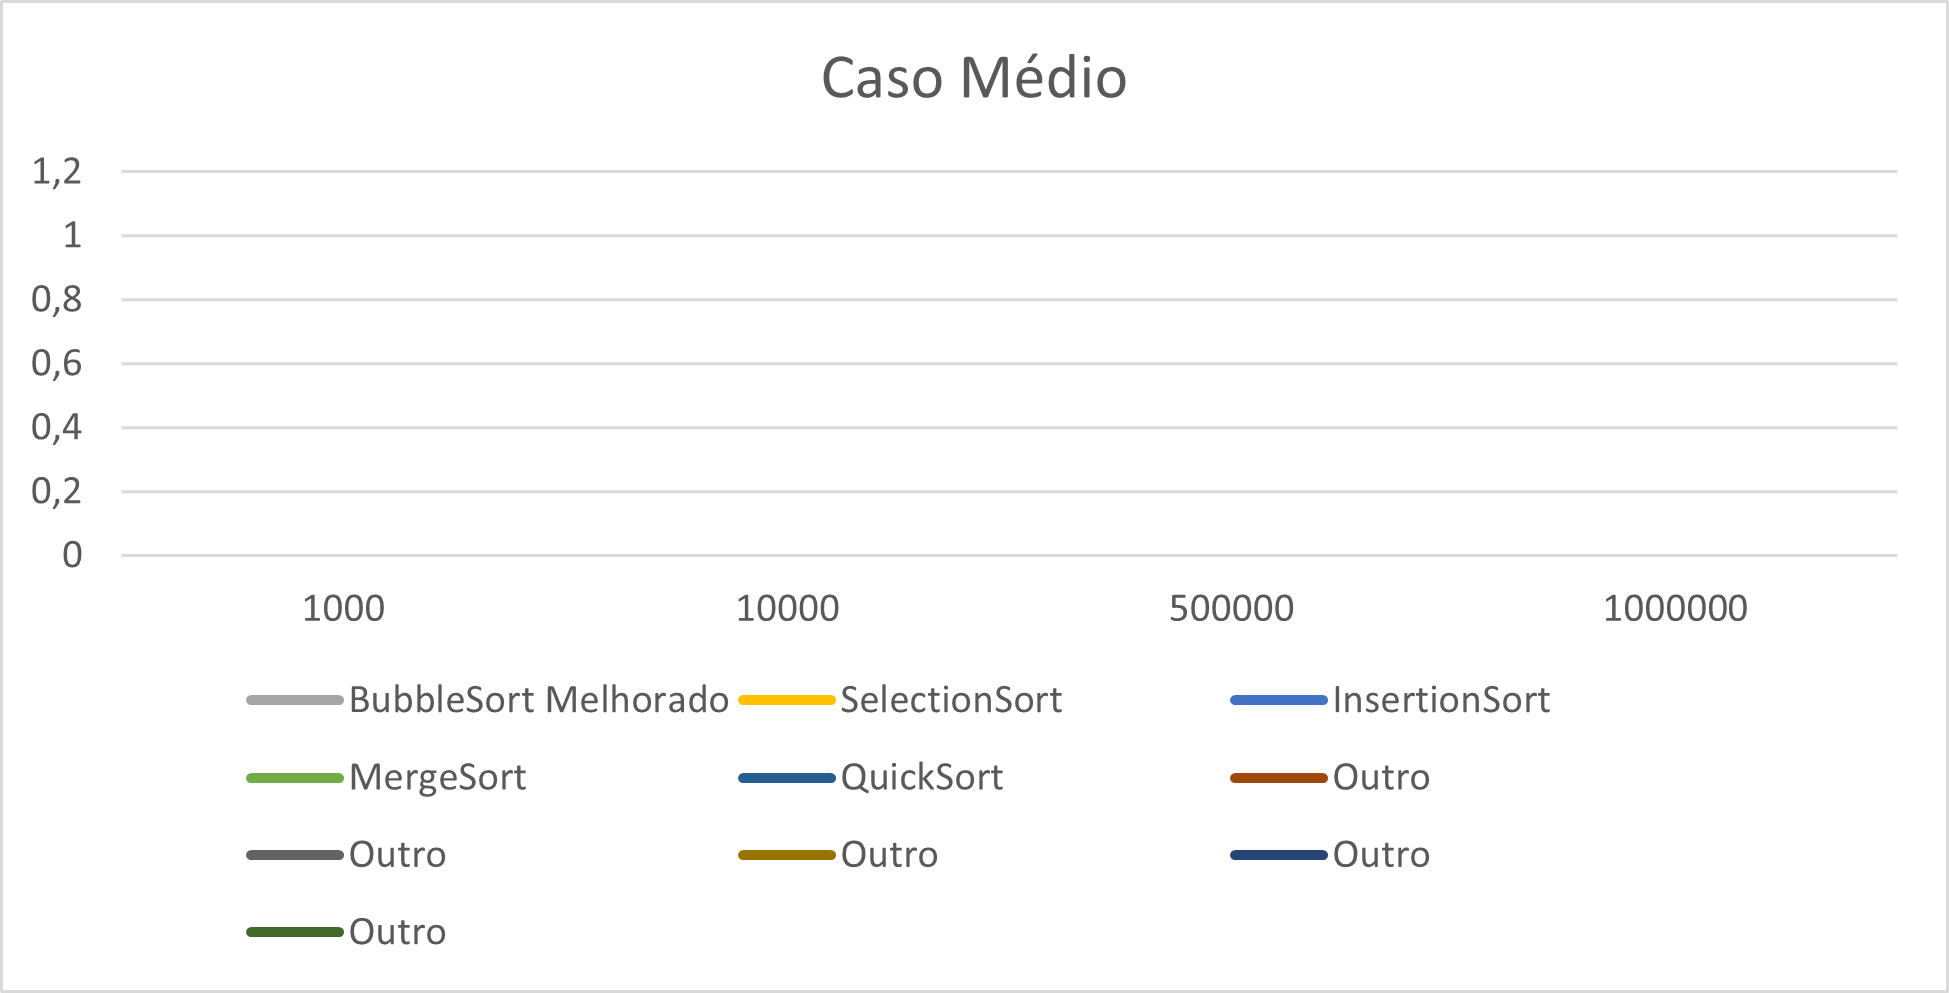
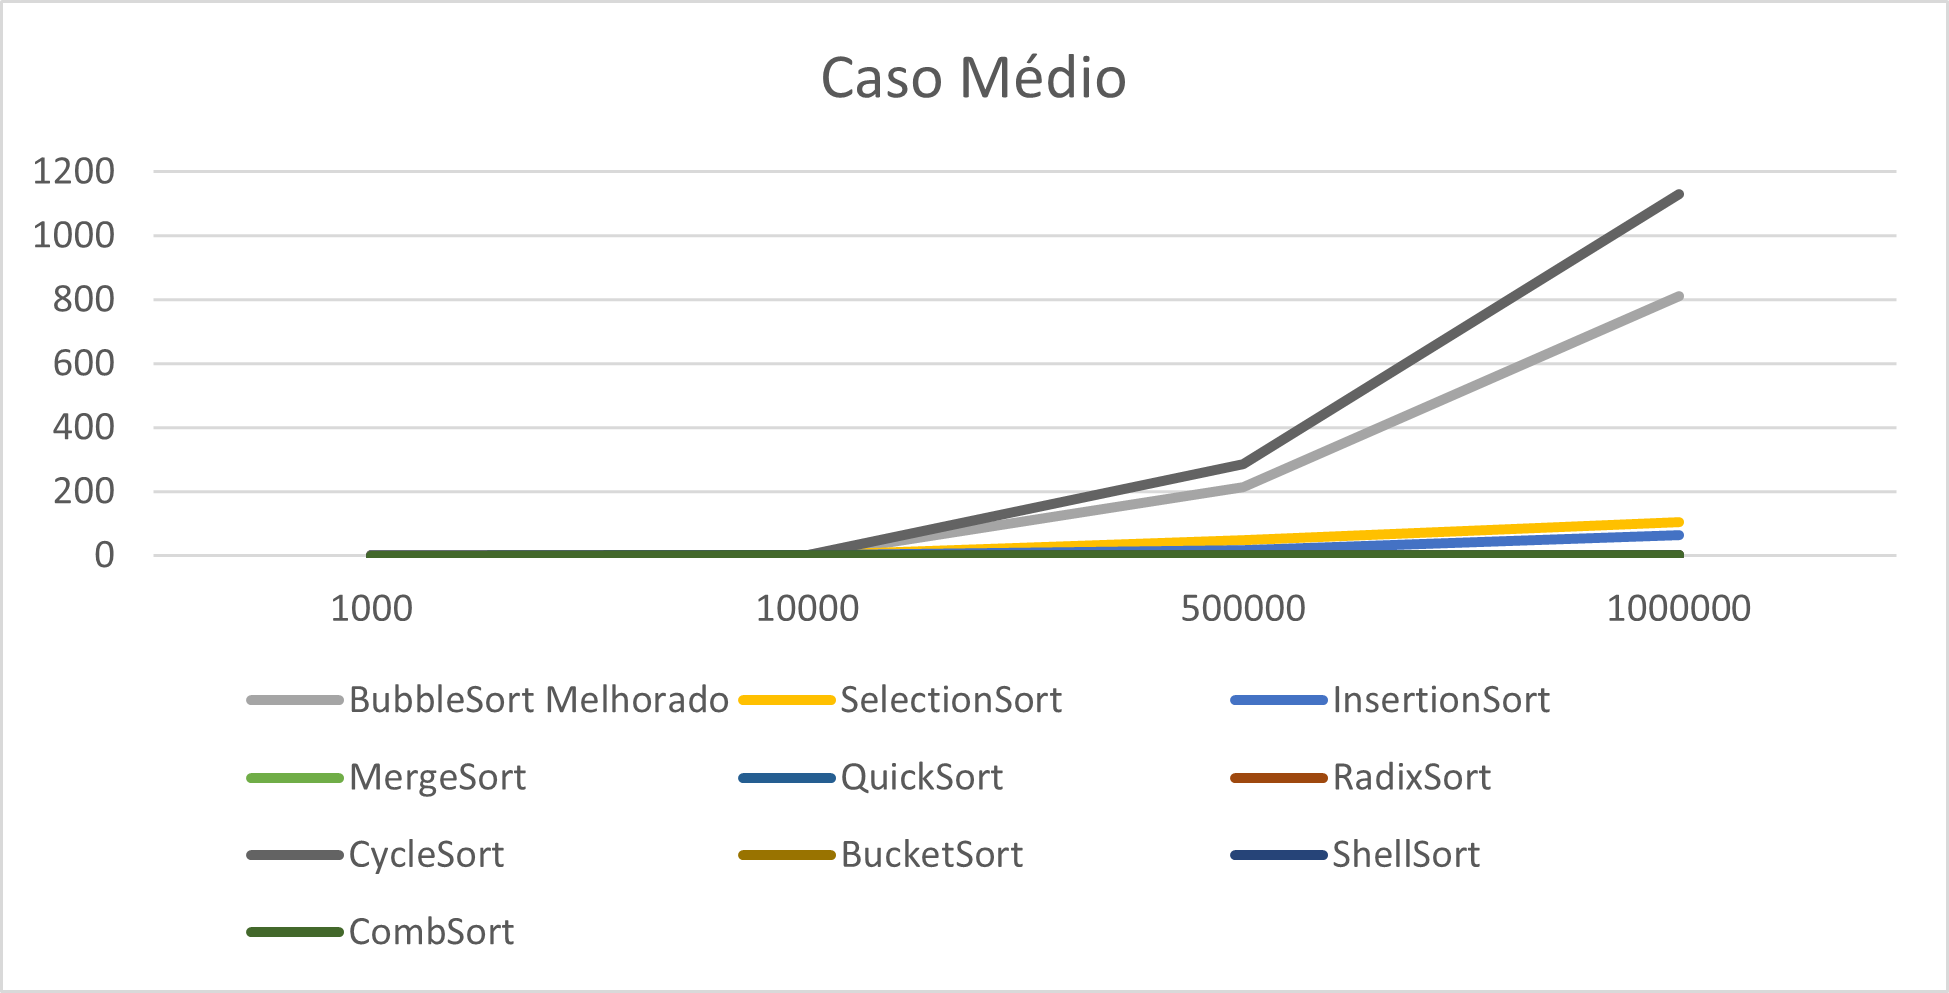
att

diff --git a/index.html b/index.html
@@ -1037,66 +1037,73 @@
                                         <tbody>
                                           <tr>
                                             <th scope="row">BubbleSort Melhorado</th>
-                                            <td>0</td>
-                                            <td>0</td>
-                                            <td>0</td>
-                                            <td>1</td>
+                                            <td>0,000013</td>
+                                            <td>0,000036</td>
+                                            <td>0,000308</td>
+                                            <td>0,000371</td>
+                                          </tr>
+                                          <tr>
+                                            <th scope="row">SelectionSort</th>
+                                            <td>0,0024231</td>
+                                            <td>0,01939</td>
+                                            <td>47,1857</td>
+                                            <td>71,3651</td>
                                           </tr>
                                           <tr>
                                             <th scope="row">InsertionSort</th>
-                                            <td>3</td>
-                                            <td>106</td>
-                                            <td>433650</td>
-                                            <td>1908248</td>
+                                            <td>0,00003</td>
+                                            <td>0,000238</td>
+                                            <td>0,000438</td>
+                                            <td>0,000859</td>
                                           </tr>
                                           <tr>
                                             <th scope="row">MergeSort</th>
-                                            <td>1</td>
-                                            <td>80</td>
-                                            <td>256757</td>
-                                            <td>936512</td>
+                                            <td>0,000305</td>
+                                            <td>0,000981</td>
+                                            <td>0,027988</td>
+                                            <td>0,052208</td>
                                           </tr>
                                           <tr>
                                             <th scope="row">QuickSort</th>
-                                            <td>1</td>
-                                            <td>80</td>
-                                            <td>256757</td>
-                                            <td>936512</td>
+                                            <td>0,000281</td>
+                                            <td>0,000321</td>
+                                            <td>0,00507</td>
+                                            <td>0,01019</td>
                                           </tr>
                                           <tr>
                                             <th scope="row">RadixSort</th>
-                                            <td>1</td>
-                                            <td>80</td>
-                                            <td>256757</td>
-                                            <td>936512</td>
+                                            <td>0,000197</td>
+                                            <td>0,001279</td>
+                                            <td>0,019395</td>
+                                            <td>0,02752</td>
+                                          </tr>
+                                          <tr>
+                                            <th scope="row">CycleSort</th>
+                                            <td>0,00199</td>
+                                            <td>0,02451</td>
+                                            <td>29,7</td>
+                                            <td>164,94</td>
+                                          </tr>
+                                          <tr>
+                                            <th scope="row">BucketSort</th>
+                                            <td>0,00155</td>
+                                            <td>0,00162</td>
+                                            <td>0,0248</td>
+                                            <td>0,0238</td>
                                           </tr>
                                           <tr>
                                             <th scope="row">ShellSort</th>
-                                            <td>1</td>
-                                            <td>80</td>
-                                            <td>256757</td>
-                                            <td>936512</td>
-                                          </tr>
-                                          <tr>
-                                            <th scope="row">TimSort</th>
-                                            <td>1</td>
-                                            <td>80</td>
-                                            <td>256757</td>
-                                            <td>936512</td>
+                                            <td>0,000187</td>
+                                            <td>0,00149</td>
+                                            <td>0,001768</td>
+                                            <td>0,014911</td>
                                           </tr>
                                           <tr>
                                             <th scope="row">CombSort</th>
-                                            <td>1</td>
-                                            <td>80</td>
-                                            <td>256757</td>
-                                            <td>936512</td>
-                                          </tr>
-                                          <tr>
-                                            <th scope="row">CountSort</th>
-                                            <td>1</td>
-                                            <td>80</td>
-                                            <td>256757</td>
-                                            <td>936512</td>
+                                            <td>0,000227</td>
+                                            <td>0,00132</td>
+                                            <td>0,01299</td>
+                                            <td>0,02714</td>
                                           </tr>
                                         </tbody>
                                       </table>
@@ -1144,66 +1151,73 @@
                                         <tbody>
                                           <tr>
                                             <th scope="row">BubbleSort Melhorado</th>
-                                            <td>0</td>
-                                            <td>0</td>
-                                            <td>0</td>
-                                            <td>1</td>
+                                            <td>0,003584</td>
+                                            <td>0,022136</td>
+                                            <td>215,338</td>
+                                            <td>811,635</td>
+                                          </tr>
+                                          <tr>
+                                            <th scope="row">SelectionSort</th>
+                                            <td>0,003272</td>
+                                            <td>0,01908</td>
+                                            <td>48,9922</td>
+                                            <td>103,32489</td>
                                           </tr>
                                           <tr>
                                             <th scope="row">InsertionSort</th>
-                                            <td>3</td>
-                                            <td>106</td>
-                                            <td>433650</td>
-                                            <td>1908248</td>
+                                            <td>0,00208</td>
+                                            <td>0,032571</td>
+                                            <td>15,9474</td>
+                                            <td>64,123</td>
                                           </tr>
                                           <tr>
                                             <th scope="row">MergeSort</th>
-                                            <td>1</td>
-                                            <td>80</td>
-                                            <td>256757</td>
-                                            <td>936512</td>
+                                            <td>0,000114</td>
+                                            <td>0,0012474</td>
+                                            <td>0,045521</td>
+                                            <td>0,112343</td>
                                           </tr>
                                           <tr>
                                             <th scope="row">QuickSort</th>
-                                            <td>1</td>
-                                            <td>80</td>
-                                            <td>256757</td>
-                                            <td>936512</td>
+                                            <td>0,000085</td>
+                                            <td>0,000665</td>
+                                            <td>0,02841</td>
+                                            <td>0,05983</td>
                                           </tr>
                                           <tr>
                                             <th scope="row">RadixSort</th>
-                                            <td>1</td>
-                                            <td>80</td>
-                                            <td>256757</td>
-                                            <td>936512</td>
+                                            <td>0,000175</td>
+                                            <td>0,000432</td>
+                                            <td>0,018527</td>
+                                            <td>0,03021</td>
+                                          </tr>
+                                          <tr>
+                                            <th scope="row">CycleSort</th>
+                                            <td>0,00699</td>
+                                            <td>0,09127</td>
+                                            <td>284,8</td>
+                                            <td>1129,39</td>
+                                          </tr>
+                                          <tr>
+                                            <th scope="row">BucketSort</th>
+                                            <td>0,00066</td>
+                                            <td>0,00156</td>
+                                            <td>0,103</td>
+                                            <td>0,02268</td>
                                           </tr>
                                           <tr>
                                             <th scope="row">ShellSort</th>
-                                            <td>1</td>
-                                            <td>80</td>
-                                            <td>256757</td>
-                                            <td>936512</td>
-                                          </tr>
-                                          <tr>
-                                            <th scope="row">TimSort</th>
-                                            <td>1</td>
-                                            <td>80</td>
-                                            <td>256757</td>
-                                            <td>936512</td>
+                                            <td>0,000369</td>
+                                            <td>0,00103</td>
+                                            <td>0,050984</td>
+                                            <td>0,10627</td>
                                           </tr>
                                           <tr>
                                             <th scope="row">CombSort</th>
-                                            <td>1</td>
-                                            <td>80</td>
-                                            <td>256757</td>
-                                            <td>936512</td>
-                                          </tr>
-                                          <tr>
-                                            <th scope="row">CountSort</th>
-                                            <td>1</td>
-                                            <td>80</td>
-                                            <td>256757</td>
-                                            <td>936512</td>
+                                            <td>0,000406</td>
+                                            <td>0,00335</td>
+                                            <td>0,03587</td>
+                                            <td>0,07716</td>
                                           </tr>
                                         </tbody>
                                       </table>
@@ -1251,66 +1265,73 @@
                                         <tbody>
                                           <tr>
                                             <th scope="row">BubbleSort Melhorado</th>
-                                            <td>0</td>
-                                            <td>0</td>
-                                            <td>0</td>
-                                            <td>1</td>
+                                            <td>0,001125</td>
+                                            <td>0,028009</td>
+                                            <td>79,4978</td>
+                                            <td>295,911</td>
+                                          </tr>
+                                          <tr>
+                                            <th scope="row">SelectionSort</th>
+                                            <td>0,005155</td>
+                                            <td>0,02061</td>
+                                            <td>51,4591</td>
+                                            <td>116,36542</td>
                                           </tr>
                                           <tr>
                                             <th scope="row">InsertionSort</th>
-                                            <td>3</td>
-                                            <td>106</td>
-                                            <td>433650</td>
-                                            <td>1908248</td>
+                                            <td>0,000859</td>
+                                            <td>0,03371</td>
+                                            <td>32,09716</td>
+                                            <td>128,0642</td>
                                           </tr>
                                           <tr>
                                             <th scope="row">MergeSort</th>
-                                            <td>1</td>
-                                            <td>80</td>
-                                            <td>256757</td>
-                                            <td>936512</td>
+                                            <td>0,0000794</td>
+                                            <td>0,0009101</td>
+                                            <td>0,015662</td>
+                                            <td>0,041457</td>
                                           </tr>
                                           <tr>
                                             <th scope="row">QuickSort</th>
-                                            <td>1</td>
-                                            <td>80</td>
-                                            <td>256757</td>
-                                            <td>936512</td>
+                                            <td>0,000048</td>
+                                            <td>0,000442</td>
+                                            <td>0,01058</td>
+                                            <td>0,02237</td>
                                           </tr>
                                           <tr>
                                             <th scope="row">RadixSort</th>
-                                            <td>1</td>
-                                            <td>80</td>
-                                            <td>256757</td>
-                                            <td>936512</td>
+                                            <td>0,000179</td>
+                                            <td>0,000433</td>
+                                            <td>0,017369</td>
+                                            <td>0,02644</td>
+                                          </tr>
+                                          <tr>
+                                            <th scope="row">CycleSort</th>
+                                            <td>0,00673</td>
+                                            <td>0,04382</td>
+                                            <td>54,2089</td>
+                                            <td>215,66</td>
+                                          </tr>
+                                          <tr>
+                                            <th scope="row">BucketSort</th>
+                                            <td>0,00026</td>
+                                            <td>0,00146</td>
+                                            <td>0,0393</td>
+                                            <td>0,02622</td>
                                           </tr>
                                           <tr>
                                             <th scope="row">ShellSort</th>
-                                            <td>1</td>
-                                            <td>80</td>
-                                            <td>256757</td>
-                                            <td>936512</td>
-                                          </tr>
-                                          <tr>
-                                            <th scope="row">TimSort</th>
-                                            <td>1</td>
-                                            <td>80</td>
-                                            <td>256757</td>
-                                            <td>936512</td>
+                                            <td>0,000266</td>
+                                            <td>0,000471</td>
+                                            <td>0,009485</td>
+                                            <td>0,0244</td>
                                           </tr>
                                           <tr>
                                             <th scope="row">CombSort</th>
-                                            <td>1</td>
-                                            <td>80</td>
-                                            <td>256757</td>
-                                            <td>936512</td>
-                                          </tr>
-                                          <tr>
-                                            <th scope="row">CountSort</th>
-                                            <td>1</td>
-                                            <td>80</td>
-                                            <td>256757</td>
-                                            <td>936512</td>
+                                            <td>0,000304</td>
+                                            <td>0,00356</td>
+                                            <td>0,01471</td>
+                                            <td>0,03132</td>
                                           </tr>
                                         </tbody>
                                       </table>
